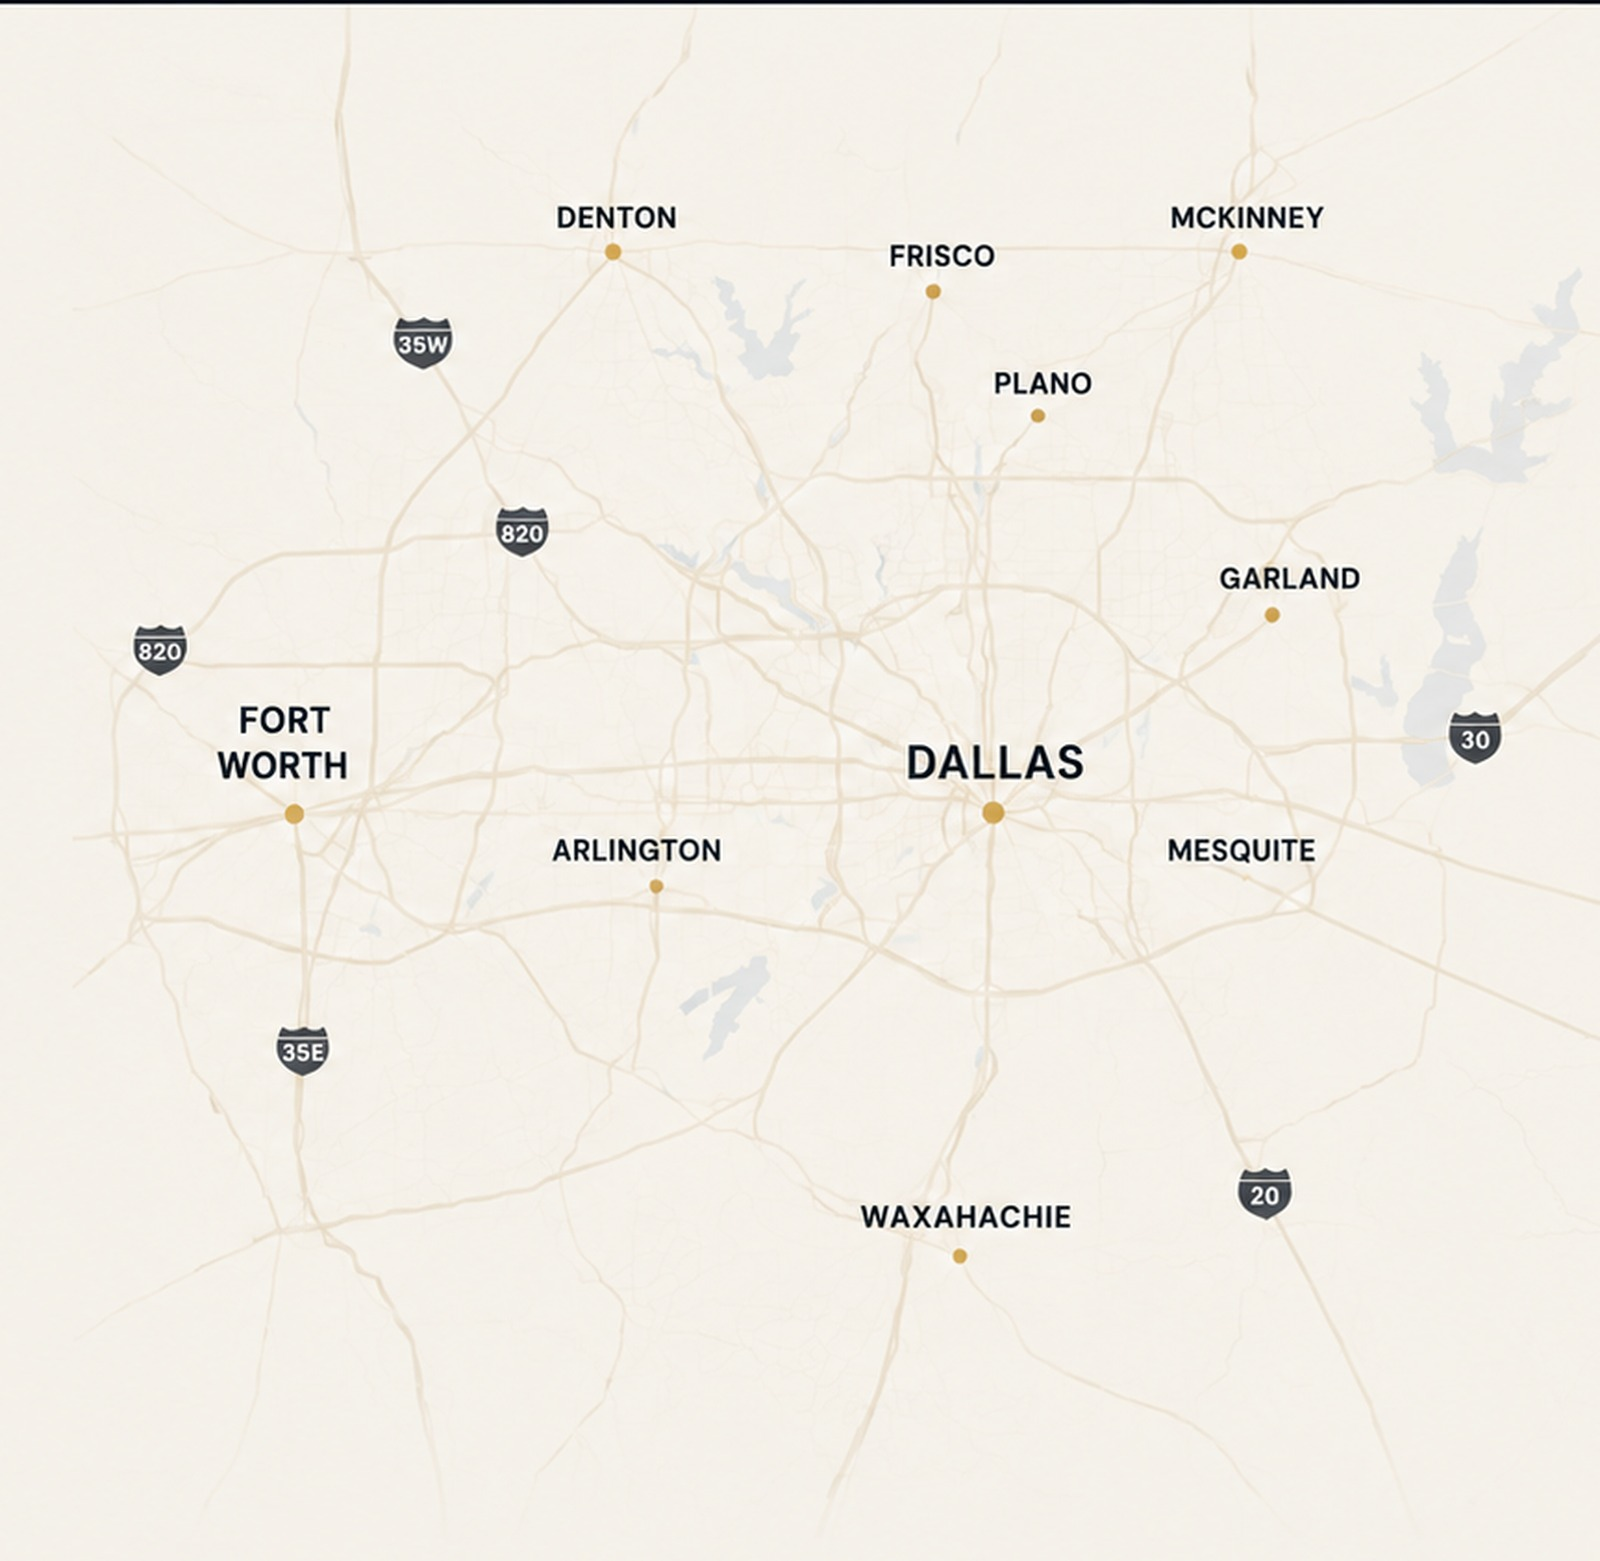
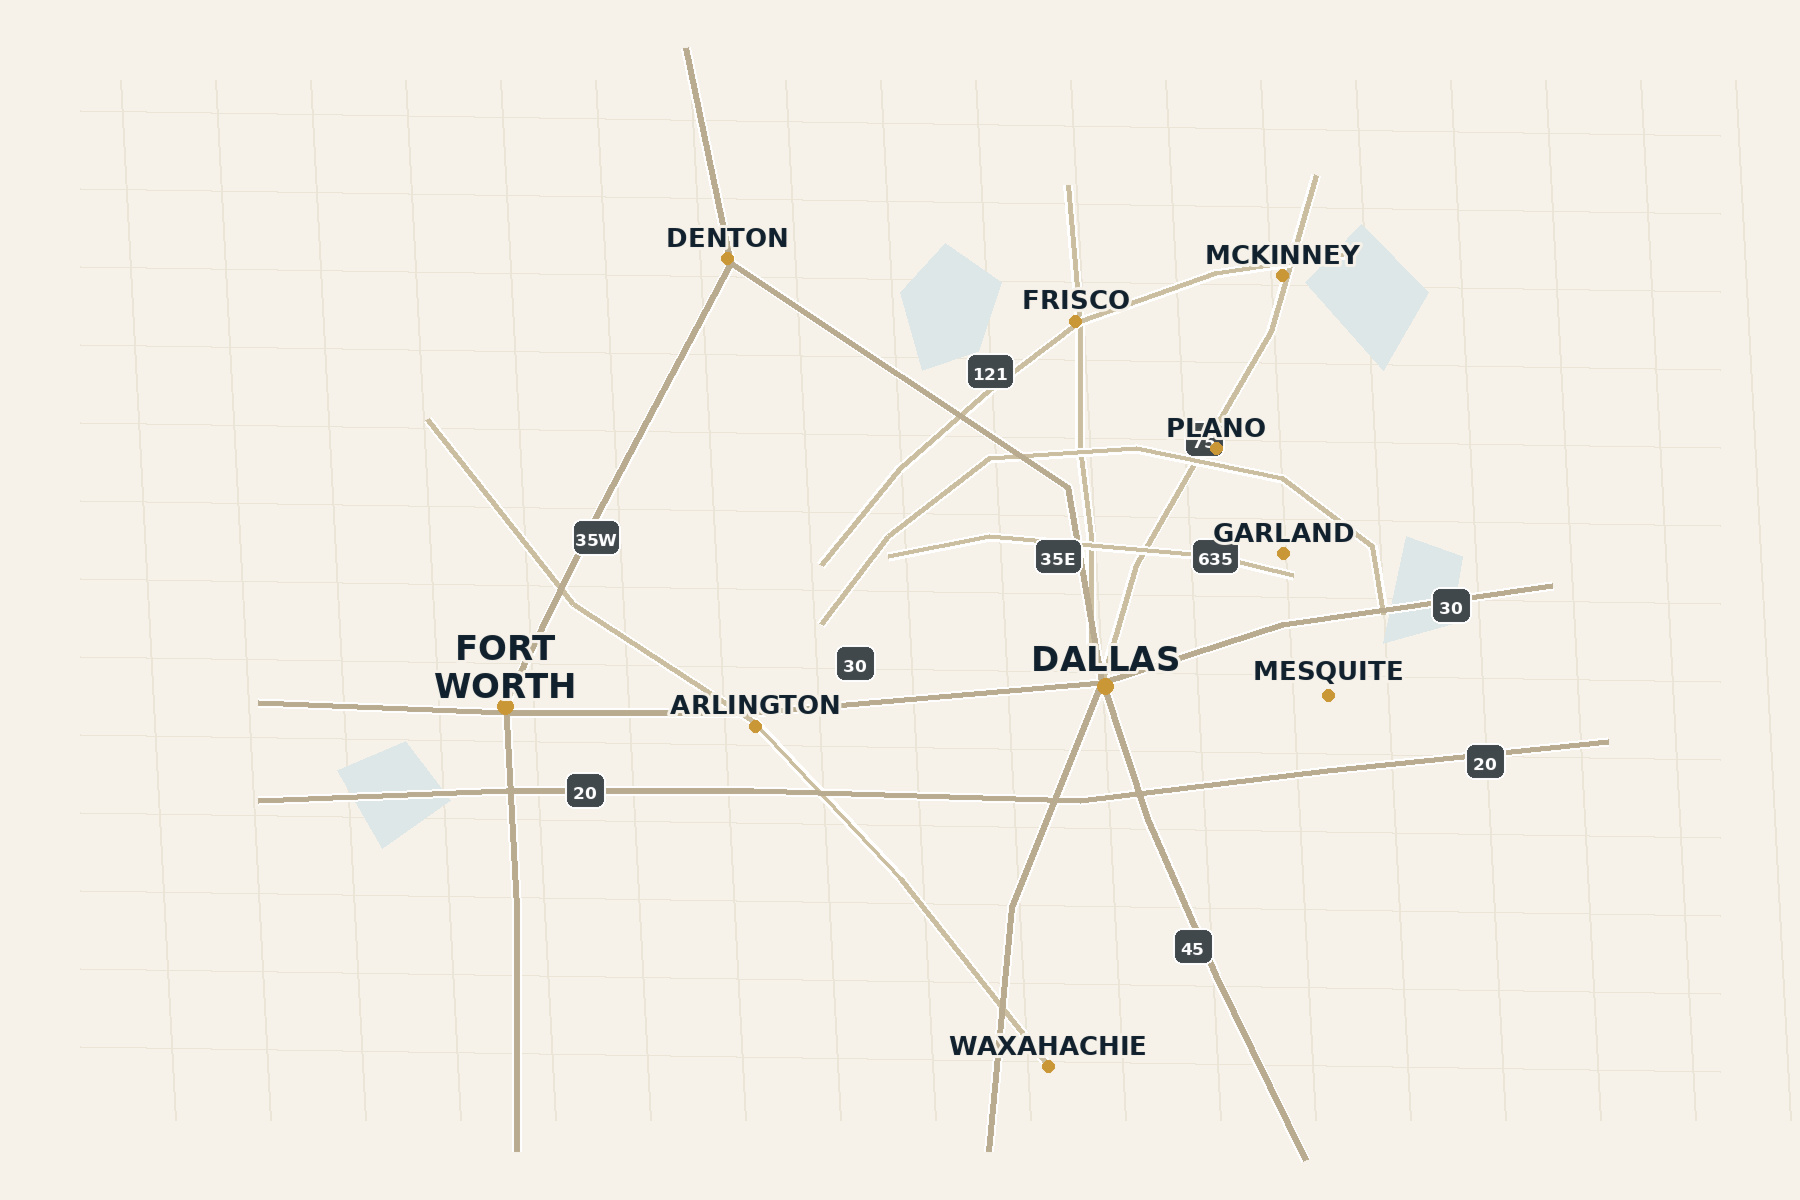
Version 4
Version 4

diff --git a/index.html b/index.html
@@ -53,7 +53,7 @@
   </div>
   <div class="service-grid">
     <article class="service-card reveal">
-      <svg viewBox="0 0 64 64" aria-hidden="true"><circle cx="29" cy="35" r="19"/><circle cx="29" cy="35" r="11"/><circle cx="29" cy="35" r="3"/><path d="M40 24 56 8m-7 0h7v7M40 24l-8 8"/></svg>
+      <svg viewBox="0 0 64 64" aria-hidden="true"><path d="M5 56h54M10 56V31l16-9v34M26 56V9l27 14v33"/><path d="M16 36h5m-5 10h5m14-16h6m-6 10h6m-6 10h6"/><path d="M48 12v8M44 16h8"/></svg>
       <h3>Advisory Services</h3><span class="mini-rule"></span>
       <p>Strategic planning, market analysis, and tailored real estate guidance aligned with your investment goals and long-term business strategy.</p>
     </article>
@@ -86,7 +86,7 @@
     <h2>North Texas.<br>Limitless Opportunities.</h2>
     <p class="body-copy">Latitude Stone provides strategic commercial real estate advisory and brokerage services across North Texas. From established urban centers to the region’s fastest-growing communities, we help clients capitalize on opportunities with confidence.</p>
     <div class="market-points">
-      <article><svg viewBox="0 0 48 48" aria-hidden="true"><circle cx="24" cy="24" r="18"/><path d="M24 12v5m0 14v5M12 24h5m14 0h5"/><circle cx="24" cy="24" r="6"/></svg><div><h3>Regional Coverage</h3><p>Serving North Texas with local expertise and regional perspective.</p></div></article>
+      <article><svg viewBox="0 0 48 48" aria-hidden="true"><circle cx="20" cy="20" r="13"/><path d="m30 30 11 11"/><path d="m11 25 6-7 5 4 8-10"/><path d="M24 12h6v6"/></svg><div><h3>Regional Coverage</h3><p>Serving North Texas with local expertise and regional perspective.</p></div></article>
       <article><svg viewBox="0 0 48 48" aria-hidden="true"><path d="M9 35c0-5 4-9 9-9s9 4 9 9M29 20c0-4 3-7 7-7s7 3 7 7"/><circle cx="18" cy="17" r="4"/><circle cx="36" cy="9" r="3"/><path d="M25 20l8-7"/></svg><div><h3>Key Markets</h3><p>Frisco · Plano · McKinney · Prosper / Celina · Las Colinas · Melissa / Anna</p></div></article>
       <article><svg viewBox="0 0 48 48" aria-hidden="true"><path d="M5 42h38M9 42V27l9-5v20M18 42V11l17 8v23M35 42V27l8 4v11"/><path d="M23 18h4m-4 7h4m-4 7h4"/></svg><div><h3>Property Expertise</h3><p>Office · Industrial · Retail · Land · Mixed-Use</p></div></article>
       <article><svg viewBox="0 0 48 48" aria-hidden="true"><circle cx="20" cy="20" r="12"/><path d="m29 29 11 11M12 24l5-6 5 4 7-9"/><path d="M29 13v7h-7"/></svg><div><h3>Market Intelligence</h3><p>Data-driven insights that support better real estate decisions.</p></div></article>
@@ -98,7 +98,7 @@
 <section id="darin" class="section section-dark meet-darin">
   <div class="portrait-wrap reveal"><img src="assets/darin-vilhauer.jpg" alt="Darin Vilhauer, founder of Latitude Stone Real Estate Group"></div>
   <div class="darin-copy reveal">
-    <p class="eyebrow">Meet Darin</p>
+    <p class="eyebrow darin-eyebrow">Meet Darin</p>
     <h2>Experience That Brings Perspective.</h2>
     <p>Darin Vilhauer is a strategic real estate and operations executive with more than two decades of experience growing multi-unit businesses, improving performance, and maximizing portfolio value.</p>
     <p>Through Latitude Stone, Darin brings an owner-minded perspective to commercial real estate, combining market intelligence, disciplined execution, and a clear understanding of the operational decisions behind every property.</p>

diff --git a/styles.css b/styles.css
@@ -22,3 +22,32 @@ main section[id]{scroll-margin-top:76px}
 .insight-grid h3{font-size:21px;min-height:52px}
 .contact-cta{background-image:linear-gradient(90deg,#040b12 0%,#040b12 34%,rgba(4,11,18,.94) 52%,rgba(4,11,18,.7) 100%),url('assets/hero-building.jpg');background-position:center,center 64%;}
 @media(max-width:1180px){main section[id]{scroll-margin-top:76px}.insights{max-width:none;grid-template-columns:1fr}.insight-grid{max-width:none}}
+
+
+/* Homepage lock-in pass: July 31, 2026 */
+/* Keep every navigation destination clear of the sticky header. */
+main section[id]{scroll-margin-top:76px}
+#why,#insights{min-height:calc(100vh - 76px)}
+#why{padding-bottom:max(150px,12vh)}
+#insights{width:100%;max-width:none;margin:0;background:var(--cream);padding-bottom:max(155px,12vh)}
+
+/* Approved high-clarity icon treatment. */
+.service-card svg{width:70px;height:70px;stroke-width:3;vector-effect:non-scaling-stroke;color:var(--gold)}
+.service-card .handshake-icon{width:76px;height:76px;stroke-width:3.25}
+.market-points svg{stroke-width:2.6}
+.darin-eyebrow{color:var(--gold)!important}
+
+/* Full-width Market Intelligence chapter and equal cards. */
+.insights{grid-template-columns:minmax(270px,330px) minmax(0,1050px);justify-content:center;gap:68px}
+.insight-grid{grid-template-columns:repeat(3,minmax(0,1fr));align-items:stretch}
+.insight-grid article{display:flex;flex-direction:column;min-width:0;height:100%}
+.insight-grid img{width:100%;height:155px;object-fit:cover;filter:contrast(1.03) saturate(1.02)}
+.insight-grid article>div{display:flex;flex-direction:column;flex:1}
+.insight-grid h3{min-height:54px}
+.insight-grid p{margin-top:auto}
+
+/* The final consultation link lands at the document bottom via script. */
+#contact{scroll-margin-top:0}
+
+@media(max-width:1180px){#why,#insights{min-height:auto}.insights{grid-template-columns:1fr}.insight-grid{grid-template-columns:repeat(3,minmax(0,1fr))}}
+@media(max-width:860px){.insight-grid{grid-template-columns:1fr}}

diff --git a/script.js b/script.js
@@ -20,3 +20,10 @@ function startHero(){if(reduceMotion||slides.length<2)return;clearInterval(heroT
 dots.forEach((dot,i)=>dot.addEventListener('click',()=>{showSlide(i);startHero();}));
 document.addEventListener('visibilitychange',()=>{if(document.hidden)clearInterval(heroTimer);else startHero();});
 startHero();
+
+
+const headerConsultation=document.querySelector('.header-cta');
+headerConsultation?.addEventListener('click',(event)=>{
+  event.preventDefault();
+  window.scrollTo({top:document.documentElement.scrollHeight-window.innerHeight,behavior:reduceMotion?'auto':'smooth'});
+});

diff --git a/README.md b/README.md
@@ -10,3 +10,7 @@ Upload the contents of this folder to the root of the GitHub repository.
 - Refined Why Latitude Stone icons and alignment
 - Smaller Market Intelligence cards with construction and mixed-use imagery
 - Clean final consultation background without visible ghost text
+
+
+## Version 4.0 lock-in pass
+Includes final homepage review updates: sharper approved hero and insight imagery, clearer custom icons, geographically grounded DFW map, consistent anchor landing, full-width Market Intelligence background, equal insight cards, and final consultation/footer landing behavior.
